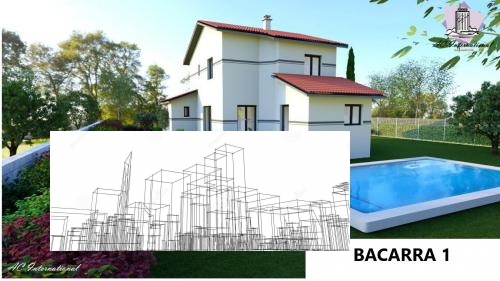
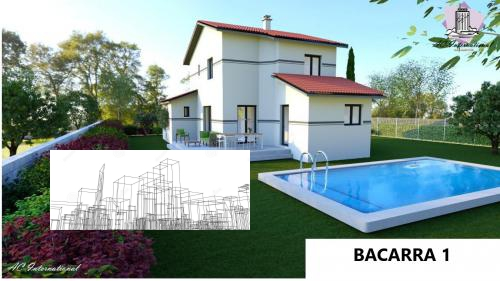
fix fusion image

Changed region(s): [[0.09, 0.4555, 0.72, 0.911]]

diff --git a/src/upload/resize.html b/src/upload/resize.html
@@ -104,8 +104,8 @@
             if (posY.value == "") {
                 posY.value = 0;
             }
-            jQuery("#img2").css("top", posX.value);
-            jQuery("#img2").css("left", posY.value);
+            jQuery("#img2").css("left", posX.value);
+            jQuery("#img2").css("top", posY.value);
         }
     }
 </script>

diff --git a/src/Fusion.php b/src/Fusion.php
@@ -9,7 +9,7 @@ class Fusion {
     private $file1;
     private $file2;
 
-    function __construct( $file1,  $file2,  $path) {
+    function __construct(?array $file1, ?array $file2, string $path) {
         $this->file1 = $file1;
         $this->file2 = $file2;
         $this->pathImage = $path;
@@ -77,19 +77,25 @@ class Fusion {
             default :
                 $source = imagecreatefromjpg($fileToResize);
         }
+
+        //copy image1
+        list($widthImg1,$heightImg1)=getimagesize("image/fichier1.jpeg");
+        $new_widthImg1 = $param['widthPrimary'];
+        $new_heightImg1 = $param['HeightImgPrimary'];
+
+        $sizeImg1=imagecreatetruecolor($new_widthImg1, $new_heightImg1);
+        imagecopyresampled($sizeImg1,imagecreatefromjpeg("image/fichier1.jpeg"),0,0,0,0,$new_widthImg1,$new_heightImg1,$widthImg1,$heightImg1 );
+        imagejpeg($sizeImg1,"newIm1.jpeg");
+
         // 2 nd image to resize
         list($width, $height) = getimagesize($fileToResize);
         $new_width = $param["widthSecondary"];
         $new_height = $param["HeightImgSecondary"];
 
-        list($widthImg1,$heightImg1)=getimagesize("image/fichier1.jpeg");
-        $new_widthImg1 = $param['widthPrimary'];
-        $new_heightImg1 = $param['HeightImgPrimary'];
+        $sizeImg2=imagecreatetruecolor($new_width,$new_height);/*création taille pour la nouvelle redimension*/
+        imagecopyresampled($sizeImg2,$source, 0, 0, 0, 0,$new_width,$new_height,$width,$height);
+        $image2=imagejpeg($sizeImg2, "copy.jpeg", 100);
 
-
-        $sizeImg1=imagecreatetruecolor($new_widthImg1, $new_heightImg1);
-
-        $imgSize=imagecreatetruecolor($new_width,$new_height);/*création taille pour la nouvelle redimension*/
 
         //création image 2 avec nouvelle dimension
         // imagecopyresampled(
@@ -104,14 +110,8 @@ class Fusion {
         //     int $src_width,
         //     int $src_height
         // ): bool
-        //copy de la premiere image
-        imagecopyresampled($sizeImg1,imagecreatefromjpeg("image/fichier1.jpeg"),0,0,0,0,$new_widthImg1,$new_heightImg1,$widthImg1,$heightImg1 );
-        $newImg1 = imagejpeg($sizeImg1,"newIm1.jpeg");
-
-        imagecopyresampled($imgSize,$source, 0, 0, 0, 0,$new_width,$new_height,$width,$height);
 
 
-        $image2=imagejpeg($imgSize, "copy.jpeg", 100);
 
         //récupération des images 1 et 2
         $image2=imagecreatefromjpeg("copy.jpeg");
@@ -122,13 +122,10 @@ class Fusion {
         $largeur_image2 = imagesx($image2);
         $hauteur_image2 = imagesy($image2);
 
-        $largeur_image1 = imagesx($image1);
-        $hauteur_image1 = imagesy($image1);
 
-        /*ATTENTION il faudra remplacer le 100 et 200 par les positions choisi par l'utilisateur*/
 
-        $destination_x = $largeur_image1 - ($param['posY']+$largeur_image2); //$largeur_image2;//position pour placer la deuxième image en x
-        $destination_y = $hauteur_image1 - ($param['posX']+$hauteur_image2);//$hauteur_image2;//position pour placer la deuxième image en y
+        $destination_x = $param['posX']; //$largeur_image2;//position pour placer la deuxième image en x
+        $destination_y = $param['posY'];//$hauteur_image2;//position pour placer la deuxième image en y
 
         // imagecopymerge(
         //     GdImage $dst_image,
@@ -141,7 +138,7 @@ class Fusion {
         //     int $src_height,
         //     int $pct
         // ): bool
-        imagecopymerge($image1, $image2, $destination_x, $destination_y, 0, 0, $largeur_image2, $hauteur_image2, 100);
+        imagecopymerge($image1, $image2,$destination_x, $destination_y, 0, 0, $largeur_image2, $hauteur_image2, 100);
 
 
         imagejpeg($image1, "copyFinal.jpeg", 100);
